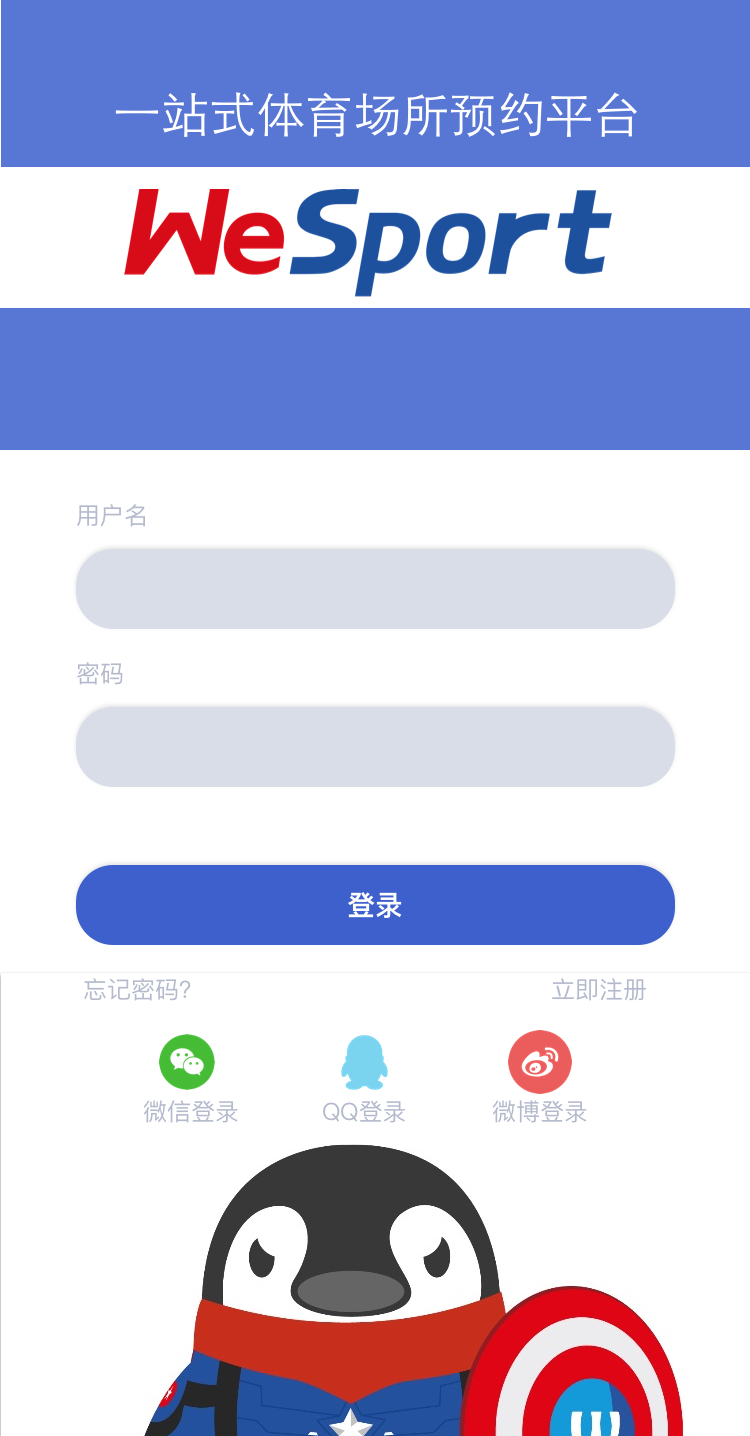
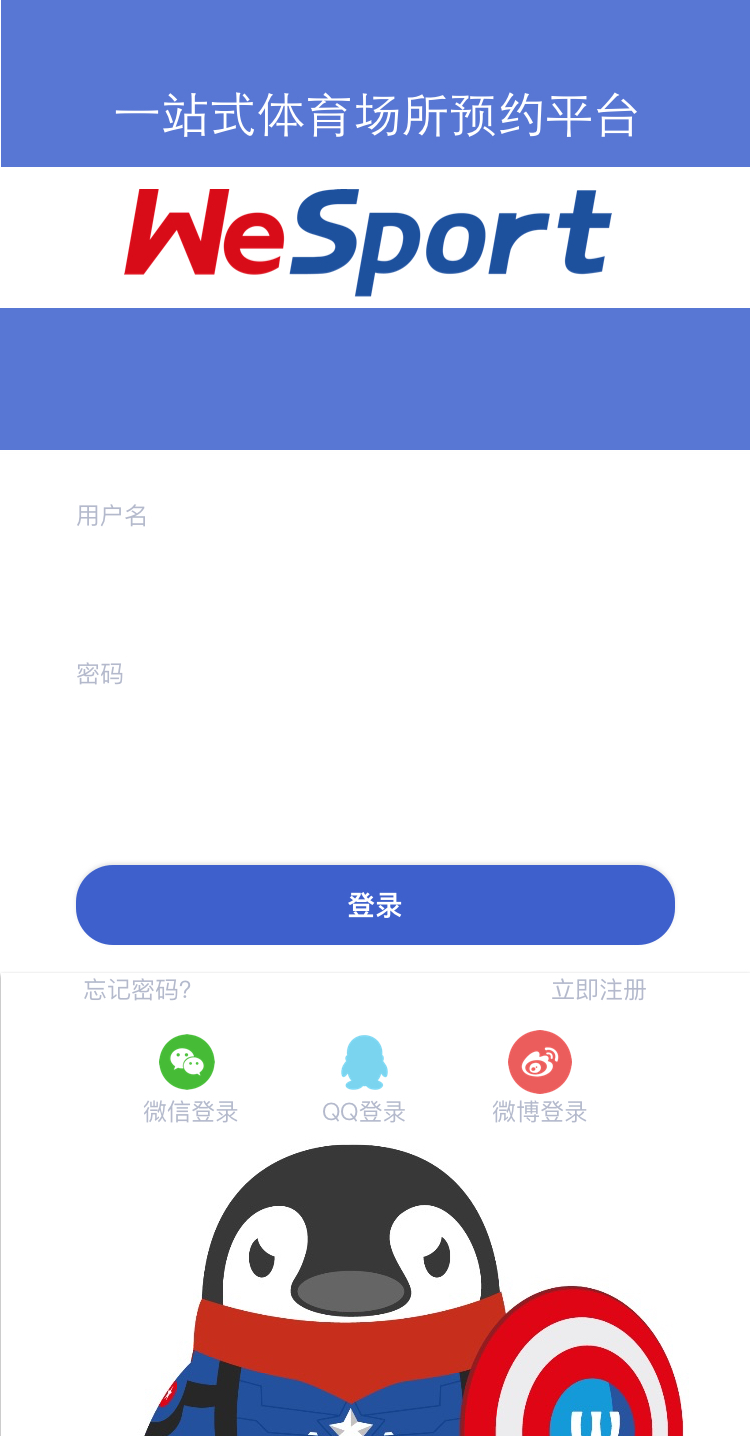
接口调用

Changed region(s): [[0.092, 0.3677, 0.92, 0.4596], [0.092, 0.4903, 0.92, 0.5515]]

diff --git a/src/components/Selector.vue b/src/components/Selector.vue
@@ -30,14 +30,36 @@ export default {
       },
       dateOptions: ['2020-08-03', '2020-08-04', '2020-08-05', '2020-08-06', '2020-08-07', '2020-08-08'],
       date: '2020-08-03',
-      rangeOptions: ['9:00-10:30', '10:30-12:00', '14:00-15:30', '15:30-17:00', '19:00-20:30', '20:30-22:00'],
-      range: '9:00-10:30'
+      rangeOptions: ['09:00-10:30', '10:30-12:00', '14:00-15:30', '15:30-17:00', '19:00-20:30', '20:30-22:00'],
+      range: '09:00-10:30'
     }
   },
   methods: {
     submitOrder () {
-      console.log(this.date, this.range)
-      this.$router.push({ path: '/order' })
+      let that = this
+      let timeObject = that.handleTime(that.date, that.range)
+      let body = {
+        userId: '3',
+        companyId: '10',
+        fieldId: '1',
+        cost: '155',
+        points: '50',
+        startTime: timeObject.startTime,
+        endTime: timeObject.endTime
+      }
+      that.$axios.post('/v1/order/create', body).then(res => {
+        console.log(res)
+        that.$router.push({ path: '/order' })
+      })
+    },
+    handleTime (date, range) {
+      let rangeStart = range.substring(0, 5)
+      let rangeEnd = range.substring(6)
+      let res = {
+        startTime: `${date}T${rangeStart}:00`,
+        endTime: `${date}T${rangeEnd}:00`
+      }
+      return res
     }
   }
 }

diff --git a/src/components/Order.vue b/src/components/Order.vue
@@ -30,10 +30,26 @@ export default {
       protocol: false
     }
   },
+  created () {
+    this.orderDetail()
+  },
   methods: {
     clickPay () {
-      console.log(this.authorize, this.protocol)
-      this.$router.push({ path: '/success' })
+      let that = this
+      that.$axios.post('/v1/order/pay', {
+        orderId: '120843943-2106663712'
+      }).then(res => {
+        console.log(res.data)
+        this.$router.push({ path: '/success' })
+      })
+    },
+    orderDetail () {
+      let that = this
+      that.$axios.get('/v1/order', {
+        orderId: '180813184728930976'
+      }).then(res => {
+        console.log(res.data)
+      })
     }
   }
 }

diff --git a/src/components/Login.vue b/src/components/Login.vue
@@ -24,8 +24,8 @@ export default {
         backgroundSize: '100% 100%',
         backgroundPosition: 'center center'
       },
-      user: 'test',
-      password: 'test'
+      user: '',
+      password: ''
     }
   },
   methods: {
@@ -36,7 +36,7 @@ export default {
         password: that.password,
         groupId: 'U'
       }).then(res => {
-        console.log(res.data.data.token)
+        document.cookie = 'token=' + res.data.data.token
         that.$router.push({ path: '/' })
       })
     }
@@ -50,7 +50,6 @@ export default {
   margin: 0 auto;
 }
 .div-col{
-  width: 750px;
 }
 .top{
   height: 450px;

diff --git a/src/components/Reservation.vue b/src/components/Reservation.vue
@@ -63,6 +63,5 @@ export default {
   width: 250px;
 }
 .div-col{
-  width: 750px;
 }
 </style>
